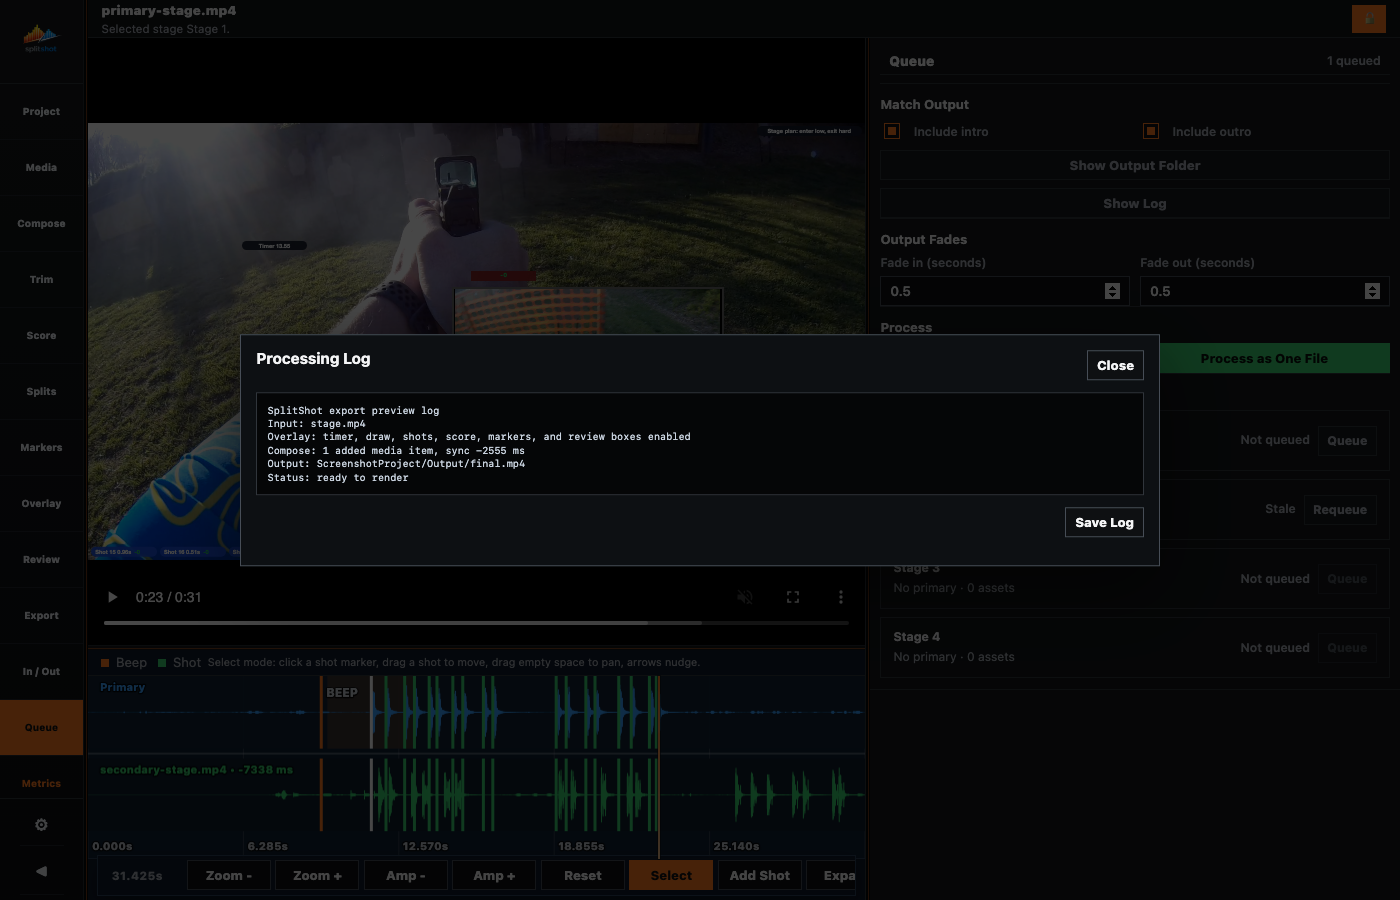
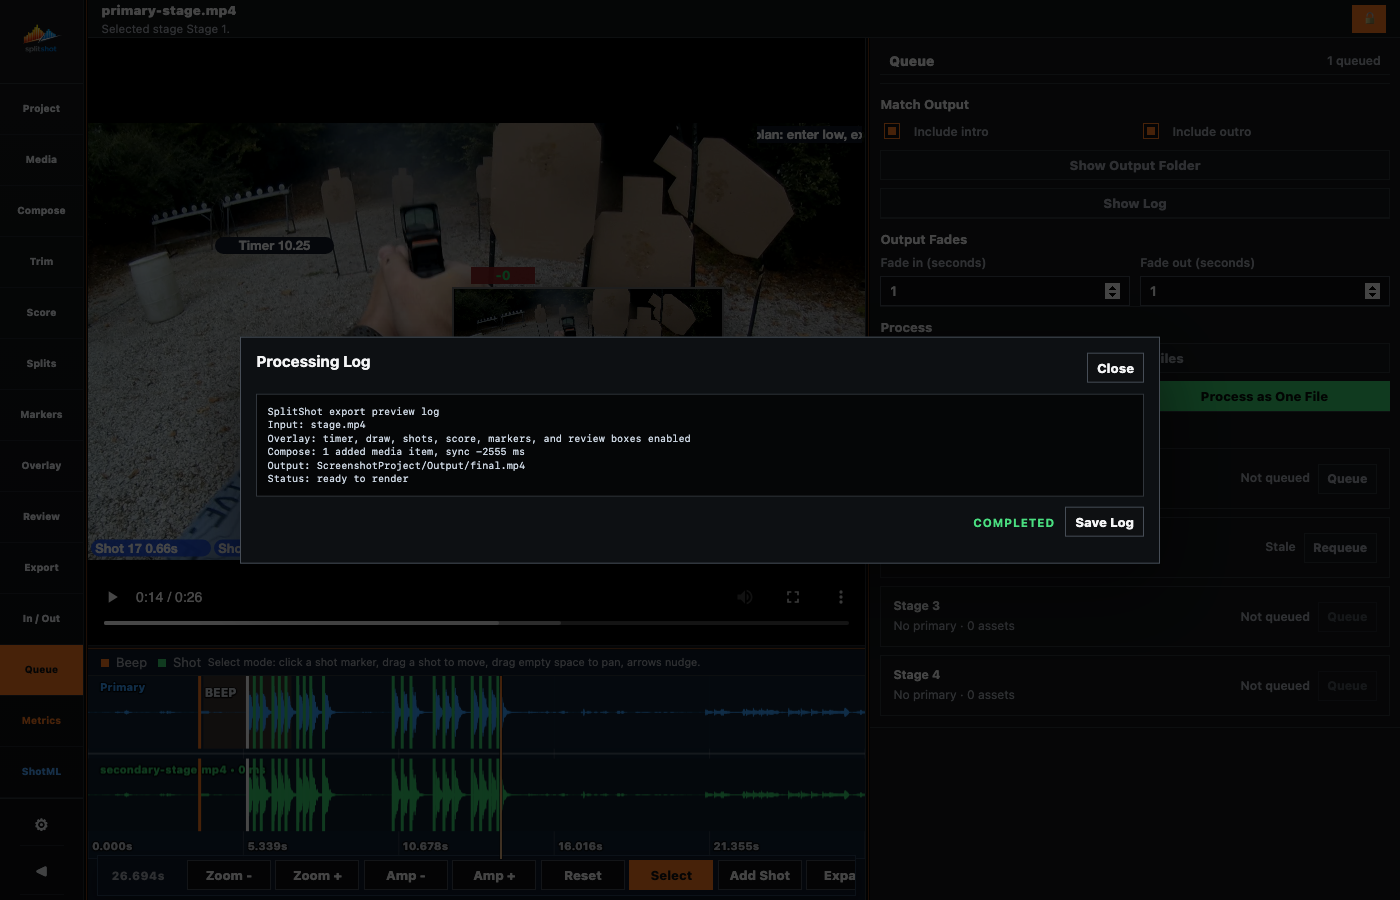
fix: align overlay previews with rendered video
Before:
- Overlay badges could use export geometry instead of the letterboxed video bounds.
- Screenshot setup could desynchronize linked marker/review controls.

Now:
- Preview overlays use the rendered video rectangle and clamp to visible content.
- Screenshot capture and release tooling guards cover the corrected contracts.

Why:
- Linked to: v107 release-preparation request.

How:
- Position badges against the live video layer and refresh after layout.
- Regenerate the documentation screenshot set and strengthen focused checks.

Proof:
- TMPDIR=... uv run pytest --basetemp=tmp/codex/pytest tests/scripts/test_packaged_app_e2e.py tests/browser/test_browser_static_ui.py tests/browser/test_overlay_review_contracts.py tests/scripts/test_check_tracked_tree_hygiene.py tests/scripts/test_documentation_screenshot_tooling.py tests/scripts/test_packaged_artifact.py (84 passed)

diff --git a/src/splitshot/browser/static/panes/overlay-pane.js b/src/splitshot/browser/static/panes/overlay-pane.js
@@ -52,6 +52,7 @@ export function createOverlayPane({
   scheduleInteractionPreviewRender = () => {},
   scheduleOverlayApply = () => {},
   previewFrameClientRect = () => null,
+  videoContentRect = () => null,
   resolveNormalizedPointFromRect = () => null,
   roundedRect = (rect) => rect,
   positionOverlayContainer = () => {},
@@ -1011,7 +1012,21 @@ export function createOverlayPane({
     const stage = $("video-stage");
     const video = $("primary-video");
     const frameGeometry = previewFrameGeometry(video, stage);
-    const frameRect = roundedRect(frameGeometry?.frameRect || stage.getBoundingClientRect());
+    const stageClientRect = stage.getBoundingClientRect();
+    const videoClientRect = video.getBoundingClientRect();
+    // The rendered video can be letterboxed inside the stage. Positioning must
+    // use its actual DOM rectangle, not export-preview geometry.
+    const renderedVideoRect = videoClientRect.width > 0 && videoClientRect.height > 0
+      ? {
+        left: videoClientRect.left - stageClientRect.left,
+        top: videoClientRect.top - stageClientRect.top,
+        width: videoClientRect.width,
+        height: videoClientRect.height,
+      }
+      : null;
+    const frameRect = roundedRect(
+      renderedVideoRect || videoContentRect(video, stage) || frameGeometry?.frameRect || stageClientRect,
+    );
     const frameClientRect = roundedRect(previewFrameClientRect(video, stage) || stage.getBoundingClientRect());
     const overlayScale = frameGeometry?.scale || overlayDisplayScale(video, frameRect);
     const positionMs = Number.isFinite(positionMsOverride)
@@ -1028,6 +1043,31 @@ export function createOverlayPane({
       x: currentState().project.overlay.custom_x,
       y: currentState().project.overlay.custom_y,
     }, overlayScale);
+    const overlayQuadrant = currentState().project.overlay.shot_quadrant || "bottom_left";
+    if (overlayQuadrant !== customQuadrantValue) {
+      const [vertical, horizontal] = overlayQuadrant.split("_");
+      const anchorX = horizontal === "right" ? frameRect.left + frameRect.width
+        : horizontal === "middle" ? frameRect.left + (frameRect.width / 2) : frameRect.left;
+      const anchorY = vertical === "bottom" ? frameRect.top + frameRect.height
+        : vertical === "middle" ? frameRect.top + (frameRect.height / 2) : frameRect.top;
+      overlay.style.left = `${anchorX}px`;
+      overlay.style.top = `${anchorY}px`;
+      overlay.style.right = "auto";
+      overlay.style.bottom = "auto";
+      overlay.style.transform = `translate(${horizontal === "right" ? "-100%" : horizontal === "middle" ? "-50%" : "0"}, ${vertical === "bottom" ? "-100%" : vertical === "middle" ? "-50%" : "0"})`;
+    } else {
+      const x = Number(currentState().project.overlay.custom_x ?? 0.5);
+      const y = Number(currentState().project.overlay.custom_y ?? 0.5);
+      const clampCustomOverlay = () => {
+        const width = overlay.offsetWidth;
+        const height = overlay.offsetHeight;
+        overlay.style.transform = "";
+        overlay.style.left = `${clamp((x * frameRect.width) - (width / 2), frameRect.left, frameRect.left + Math.max(0, frameRect.width - width))}px`;
+        overlay.style.top = `${clamp((y * frameRect.height) - (height / 2), frameRect.top, frameRect.top + Math.max(0, frameRect.height - height))}px`;
+      };
+      clampCustomOverlay();
+      requestAnimationFrame(clampCustomOverlay);
+    }
     customOverlay.style.left = `${frameRect.left}px`;
     customOverlay.style.top = `${frameRect.top}px`;
     customOverlay.style.width = `${frameRect.width}px`;

diff --git a/src/splitshot/browser/static/app.js b/src/splitshot/browser/static/app.js
@@ -8346,7 +8346,19 @@ function pinCustomOverlayAnchor(overlay, frameRect, customPoint = null) {
   const badgeRect = anchorBadge.getBoundingClientRect();
   const anchorOffsetX = (badgeRect.left - overlayRect.left) + (badgeRect.width / 2);
   const anchorOffsetY = (badgeRect.top - overlayRect.top) + (badgeRect.height / 2);
-  overlay.style.transform = `translate(${-anchorOffsetX}px, ${-anchorOffsetY}px)`;
+  const width = Math.max(0, overlay.offsetWidth || overlayRect.width || 0);
+  const height = Math.max(0, overlay.offsetHeight || overlayRect.height || 0);
+  overlay.style.left = `${clamp(
+    frameRect.left + (x * frameRect.width) - anchorOffsetX,
+    frameRect.left,
+    frameRect.left + Math.max(0, frameRect.width - width),
+  )}px`;
+  overlay.style.top = `${clamp(
+    frameRect.top + (y * frameRect.height) - anchorOffsetY,
+    frameRect.top,
+    frameRect.top + Math.max(0, frameRect.height - height),
+  )}px`;
+  overlay.style.transform = "";
 }
 
 function positionTextBoxBadge(badge, box, frameRect, { anchorBadge = null, anchorRect = null, scale = 1 } = {}) {
@@ -8397,11 +8409,19 @@ function placeOverlayBadge(layer, badge, frameRect, xValue, yValue) {
   badge.style.top = "0px";
   badge.style.transform = "";
   layer.appendChild(badge);
-  const badgeRect = badge.getBoundingClientRect();
-  const badgeWidth = Math.max(0, badgeRect.width || badge.offsetWidth || 0);
-  const badgeHeight = Math.max(0, badgeRect.height || badge.offsetHeight || 0);
-  badge.style.left = `${clamp((x * frameRect.width) - (badgeWidth / 2), 0, Math.max(0, frameRect.width - badgeWidth))}px`;
-  badge.style.top = `${clamp((y * frameRect.height) - (badgeHeight / 2), 0, Math.max(0, frameRect.height - badgeHeight))}px`;
+  const positionBadge = () => {
+    const badgeRect = badge.getBoundingClientRect();
+    const badgeWidth = Math.max(0, badgeRect.width || badge.offsetWidth || 0);
+    const badgeHeight = Math.max(0, badgeRect.height || badge.offsetHeight || 0);
+    // The positioned layer is the rendered frame authority. Its dimensions can
+    // differ from export geometry while the video is letterboxed.
+    const layerWidth = Math.max(1, Number(layer.clientWidth || frameRect.width || 1));
+    const layerHeight = Math.max(1, Number(layer.clientHeight || frameRect.height || 1));
+    badge.style.left = `${clamp((x * layerWidth) - (badgeWidth / 2), 0, Math.max(0, layerWidth - badgeWidth))}px`;
+    badge.style.top = `${clamp((y * layerHeight) - (badgeHeight / 2), 0, Math.max(0, layerHeight - badgeHeight))}px`;
+  };
+  positionBadge();
+  requestAnimationFrame(positionBadge);
   return true;
 }
 
@@ -9803,6 +9823,7 @@ overlayPane = createOverlayPane({
   scheduleInteractionPreviewRender,
   scheduleOverlayApply,
   previewFrameClientRect,
+  videoContentRect,
   resolveNormalizedPointFromRect,
   roundedRect,
   positionOverlayContainer,

diff --git a/scripts/bundle-python.js b/scripts/bundle-python.js
@@ -185,6 +185,10 @@ function portableMediaManifest() {
 function verifyBundledMediaTool(toolPath) {
   runFile(toolPath, ['-version']);
   if (process.platform === 'darwin') {
+    if (process.env.SPLITSHOT_SKIP_HOST_LINKAGE_AUDIT === '1') {
+      console.warn('[bundle] skipping macOS host-linkage audit by explicit local override');
+      return;
+    }
     const linked = execFileSync('otool', ['-L', toolPath], { encoding: 'utf8', cwd: ROOT });
     for (const forbidden of ['/opt/homebrew/', '/usr/local/Cellar/', '/usr/local/opt/']) {
       if (linked.includes(forbidden)) {

diff --git a/electron/tests/launch-intent.test.js b/electron/tests/launch-intent.test.js
@@ -12,7 +12,7 @@ const {
 } = require('../launch-intent');
 
 function makeProjectBundle(name) {
-  const root = fs.mkdtempSync(path.join(os.tmpdir(), 'splitshot-launch-intent-'));
+  const root = fs.mkdtempSync(path.join(path.resolve(os.tmpdir()), 'splitshot-launch-intent-'));
   const projectPath = path.join(root, `${name}.ssproj`);
   fs.mkdirSync(projectPath, { recursive: true });
   fs.writeFileSync(path.join(projectPath, 'project.json'), '{}', 'utf8');

diff --git a/scripts/docs/capture_browser_screenshots.py b/scripts/docs/capture_browser_screenshots.py
@@ -524,6 +524,10 @@ def prepare_demo_state(page: Page) -> None:
             state.project.ui_state.review_show_markers = true;
             state.project.ui_state.review_show_pip = true;
           }
+          // Keep the linked Markers and Review controls in agreement before
+          // syncing the local UI state.  The synchronizer reads markers-enable
+          // first, so setting only the Review checkbox would reset markers.
+          if (document.getElementById('markers-enable')) document.getElementById('markers-enable').checked = true;
           if (document.getElementById('show-markers')) document.getElementById('show-markers').checked = true;
           if (document.getElementById('show-pip')) document.getElementById('show-pip').checked = true;
 
@@ -698,15 +702,30 @@ def validate_dynamic_standings(page: Page) -> None:
     """Keep generic selectors distinct from source-derived rendered standings."""
     click_tool(page, "review")
     prepare_demo_state(page)
-    selector_labels = page.locator(
+    selector_label_groups = page.locator(
         "[data-summary-metric='division_placement'], "
         "[data-summary-metric='class_placement'], "
         "[data-summary-metric='overall_placement']"
     ).evaluate_all(
-        "controls => controls.map((control) => control.closest('label')?.textContent?.trim() || '')"
+        """controls => {
+          const groups = new Map();
+          controls.forEach((control) => {
+            const card = control.closest('.text-box-card');
+            if (!card) return;
+            const labels = groups.get(card) || [];
+            labels.push(control.closest('label')?.textContent?.trim() || '');
+            groups.set(card, labels);
+          });
+          return [...groups.values()];
+        }"""
     )
-    if selector_labels != ["Division", "Class", "Overall"]:
-        raise RuntimeError(f"Summary metric selectors must remain generic: {selector_labels}")
+    expected_selector_labels = ["Division", "Class", "Overall"]
+    if not selector_label_groups or any(
+        labels != expected_selector_labels for labels in selector_label_groups
+    ):
+        raise RuntimeError(
+            f"Summary metric selectors must remain generic: {selector_label_groups}"
+        )
     page.wait_for_function(
         r"""
         () => {

diff --git a/scripts/audits/browser/run_browser_ui_surface_audit.py b/scripts/audits/browser/run_browser_ui_surface_audit.py
@@ -605,6 +605,9 @@ def audit_overlay_surfaces(page: Page) -> CheckResult:
           };
           const collect = () => {
             const rect = frameRect();
+            const scoreLayerRect = document.getElementById("score-layer")?.getBoundingClientRect();
+            const liveOverlay = document.getElementById("live-overlay");
+            const videoRect = video.getBoundingClientRect();
             const badges = Array.from(document.querySelectorAll("#live-overlay .overlay-badge, #custom-overlay .overlay-badge")).map((badge) => {
               const badgeRect = badge.getBoundingClientRect();
               const frameRight = rect.left + rect.width;
@@ -616,6 +619,15 @@ def audit_overlay_surfaces(page: Page) -> CheckResult:
               return {
                 text: badge.textContent?.trim() || "",
                 inside,
+                rect: {
+                  left: badgeRect.left,
+                  top: badgeRect.top,
+                  right: badgeRect.right,
+                  bottom: badgeRect.bottom,
+                },
+                visible: badgeRect.width > 0 && badgeRect.height > 0
+                  && getComputedStyle(badge).visibility !== "hidden"
+                  && getComputedStyle(badge).display !== "none",
               };
             });
             return {
@@ -625,7 +637,21 @@ def audit_overlay_surfaces(page: Page) -> CheckResult:
                 right: rect.left + rect.width,
                 bottom: rect.top + rect.height,
               },
+              score_layer: scoreLayerRect && {
+                left: scoreLayerRect.left,
+                top: scoreLayerRect.top,
+                right: scoreLayerRect.right,
+                bottom: scoreLayerRect.bottom,
+              },
+              video: {
+                left: videoRect.left,
+                top: videoRect.top,
+                right: videoRect.right,
+                bottom: videoRect.bottom,
+              },
+              live_overlay_style: liveOverlay?.getAttribute("style") || "",
               texts: badges.map((badge) => badge.text),
+              badges,
               all_inside: badges.every((badge) => badge.inside),
             };
           };

diff --git a/tests/browser/test_browser_static_ui.py b/tests/browser/test_browser_static_ui.py
@@ -1709,8 +1709,10 @@ def test_browser_ui_includes_webkit_rendering_guards() -> None:
     assert 'badge.style.fontWeight = state.project.overlay.font_bold ? "700" : "400";' in js
     assert 'badge.style.wordBreak = "normal";' in js
     assert "const frameGeometry = previewFrameGeometry(video, stage);" in overlay_pane
+    assert "const stageClientRect = stage.getBoundingClientRect();" in overlay_pane
+    assert "const renderedVideoRect = videoClientRect" in overlay_pane
     assert (
-        "const frameRect = roundedRect(frameGeometry?.frameRect || stage.getBoundingClientRect());"
+        "renderedVideoRect || videoContentRect(video, stage) || frameGeometry?.frameRect || stageClientRect,"
         in overlay_pane
     )
     assert (
@@ -2243,6 +2245,22 @@ def test_browser_ui_surface_audit_script_exists_for_cross_browser_matrix() -> No
     assert "def audit_waveform_drag(page: Page) -> CheckResult:" in script
     assert "def audit_layout_resize_persists(page: Page) -> CheckResult:" in script
     assert "def audit_merge_file_input_change(" in script
+
+
+def test_overlay_preview_positions_against_rendered_video_content() -> None:
+    pane = (STATIC_ROOT / "panes" / "overlay-pane.js").read_text()
+    app = (STATIC_ROOT / "app.js").read_text()
+
+    assert "videoContentRect = () => null," in pane
+    assert "const videoClientRect = video.getBoundingClientRect();" in pane
+    assert "const renderedVideoRect = videoClientRect.width > 0" in pane
+    assert "videoContentRect(video, stage) || frameGeometry?.frameRect" in pane
+    assert "const overlayQuadrant = currentState().project.overlay.shot_quadrant" in pane
+    assert "const clampCustomOverlay = () =>" in pane
+    assert "const layerWidth = Math.max(1, Number(layer.clientWidth" in app
+    assert "const layerHeight = Math.max(1, Number(layer.clientHeight" in app
+    assert "requestAnimationFrame(positionBadge);" in app
+    assert "frameRect.width - width" in app
 
 
 def test_browser_interaction_audit_script_exists_for_real_browser_workflow() -> None:

diff --git a/tests/scripts/test_documentation_screenshot_tooling.py b/tests/scripts/test_documentation_screenshot_tooling.py
@@ -107,9 +107,18 @@ def test_screenshot_capture_requires_decoded_primary_and_secondary_frames() -> N
     assert "validate_showcase_state(page)" in source
 
 
+def test_screenshot_capture_keeps_linked_marker_and_review_controls_enabled() -> None:
+    source = (ROOT / "scripts/docs/capture_browser_screenshots.py").read_text()
+    assert "document.getElementById('markers-enable').checked = true" in source
+    assert "document.getElementById('show-markers').checked = true" in source
+    assert "document.getElementById('show-pip').checked = true" in source
+
+
 def test_screenshot_capture_keeps_summary_selectors_generic_and_output_dynamic() -> None:
     source = (ROOT / "scripts/docs/capture_browser_screenshots.py").read_text()
-    assert 'selector_labels != ["Division", "Class", "Overall"]' in source
+    assert 'expected_selector_labels = ["Division", "Class", "Overall"]' in source
+    assert "const groups = new Map();" in source
+    assert "closest('.text-box-card')" in source
     assert r"/^Overall - \d+\/\d+$/" in source
     assert '"Division Placement"' in source
     assert '"Class Placement"' in source

diff --git a/tests/browser/test_overlay_review_contracts.py b/tests/browser/test_overlay_review_contracts.py
@@ -1006,12 +1006,14 @@ def test_overlay_drag_math_uses_client_preview_frame_rect() -> None:
     overlay_js = (STATIC_ROOT / "panes/overlay-pane.js").read_text(encoding="utf-8")
 
     assert "function previewFrameClientRect(video, container) {" in app_js
+    assert "const layerWidth = Math.max(1, Number(layer.clientWidth || frameRect.width || 1));" in app_js
+    assert "const layerHeight = Math.max(1, Number(layer.clientHeight || frameRect.height || 1));" in app_js
     assert (
-        "badge.style.left = `${clamp((x * frameRect.width) - (badgeWidth / 2), 0, Math.max(0, frameRect.width - badgeWidth))}px`;"
+        "badge.style.left = `${clamp((x * layerWidth) - (badgeWidth / 2), 0, Math.max(0, layerWidth - badgeWidth))}px`;"
         in app_js
     )
     assert (
-        "badge.style.top = `${clamp((y * frameRect.height) - (badgeHeight / 2), 0, Math.max(0, frameRect.height - badgeHeight))}px`;"
+        "badge.style.top = `${clamp((y * layerHeight) - (badgeHeight / 2), 0, Math.max(0, layerHeight - badgeHeight))}px`;"
         in app_js
     )
     assert (

diff --git a/scripts/testing/check_tracked_tree_hygiene.py b/scripts/testing/check_tracked_tree_hygiene.py
@@ -52,6 +52,7 @@ MEDIA_SUFFIXES = {
 APPROVED_MEDIA_PREFIXES = (
     "docs/screenshots/",
     "electron/assets/",
+    "tests/release_data/",
 )
 APPROVED_MEDIA_FILES = {
     "src/splitshot/browser/static/githublogo.png",
@@ -136,7 +137,7 @@ def audit(repo: Path) -> list[str]:
             violations.append(f"unexpected media: {path}")
 
         blob = tracked_blob(repo, path)
-        if len(blob) > MAX_BLOB_BYTES:
+        if len(blob) > MAX_BLOB_BYTES and not approved_media:
             violations.append(f"unapproved blob over 5 MiB ({len(blob)} bytes): {path}")
 
         if suffix in TEXT_SUFFIXES and path not in MACHINE_PATH_ALLOWLIST:

diff --git a/tests/scripts/test_packaged_artifact.py b/tests/scripts/test_packaged_artifact.py
@@ -125,3 +125,4 @@ def test_bundle_uses_uv_managed_python_for_macos_runtime() -> None:
     assert "['python', 'install', '--managed-python', '--no-bin', pythonVersion]" in bundle_script
     assert "['python', 'find', '--managed-python', '--resolve-links', pythonVersion]" in bundle_script
     assert "bundlePosixStdlib(pythonVersion, pythonExe)" in bundle_script
+    assert "process.env.SPLITSHOT_SKIP_HOST_LINKAGE_AUDIT === '1'" in bundle_script

diff --git a/tests/scripts/test_check_tracked_tree_hygiene.py b/tests/scripts/test_check_tracked_tree_hygiene.py
@@ -36,6 +36,7 @@ def test_audit_accepts_approved_assets_and_portable_text(tmp_path: Path) -> None
             "docs/screenshots/ProjectPane.png": b"png",
             "electron/assets/icon.icns": b"icon",
             "tests/fixtures/media/e2e-stage.mp4": b"video",
+            "tests/release_data/primary.MP4": b"x" * (HYGIENE.MAX_BLOB_BYTES + 1),
         },
     )
 
